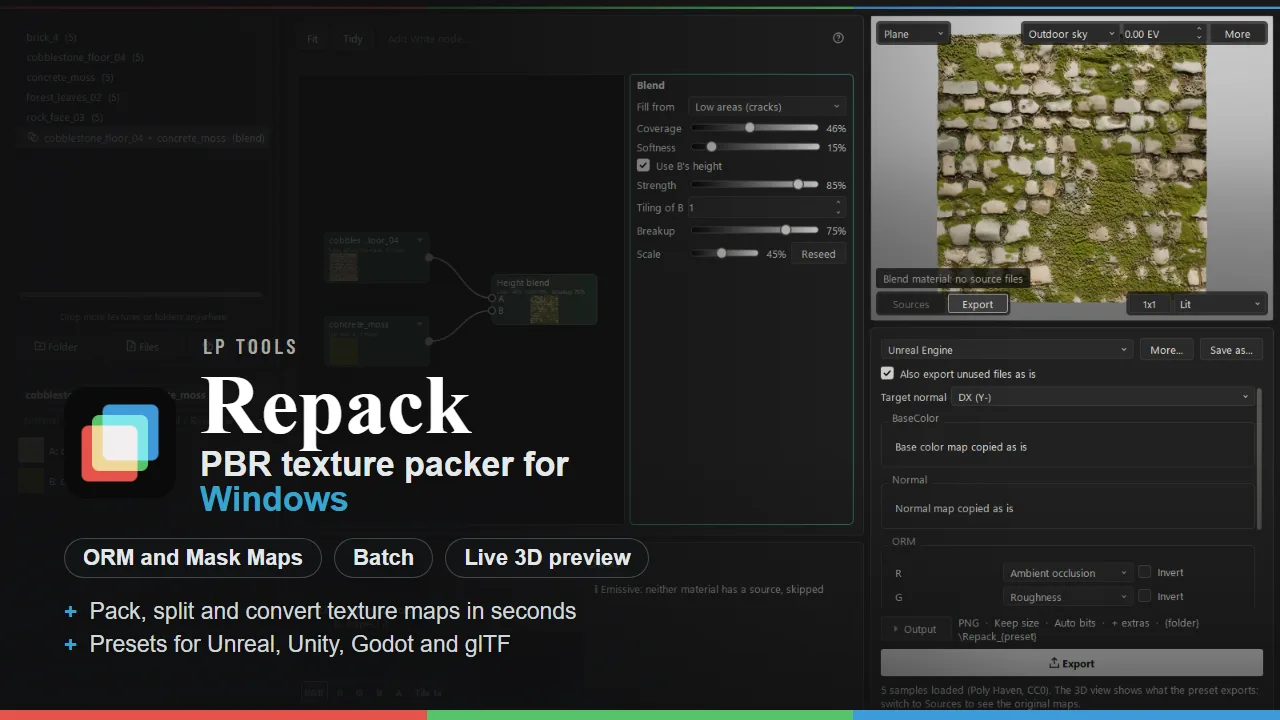
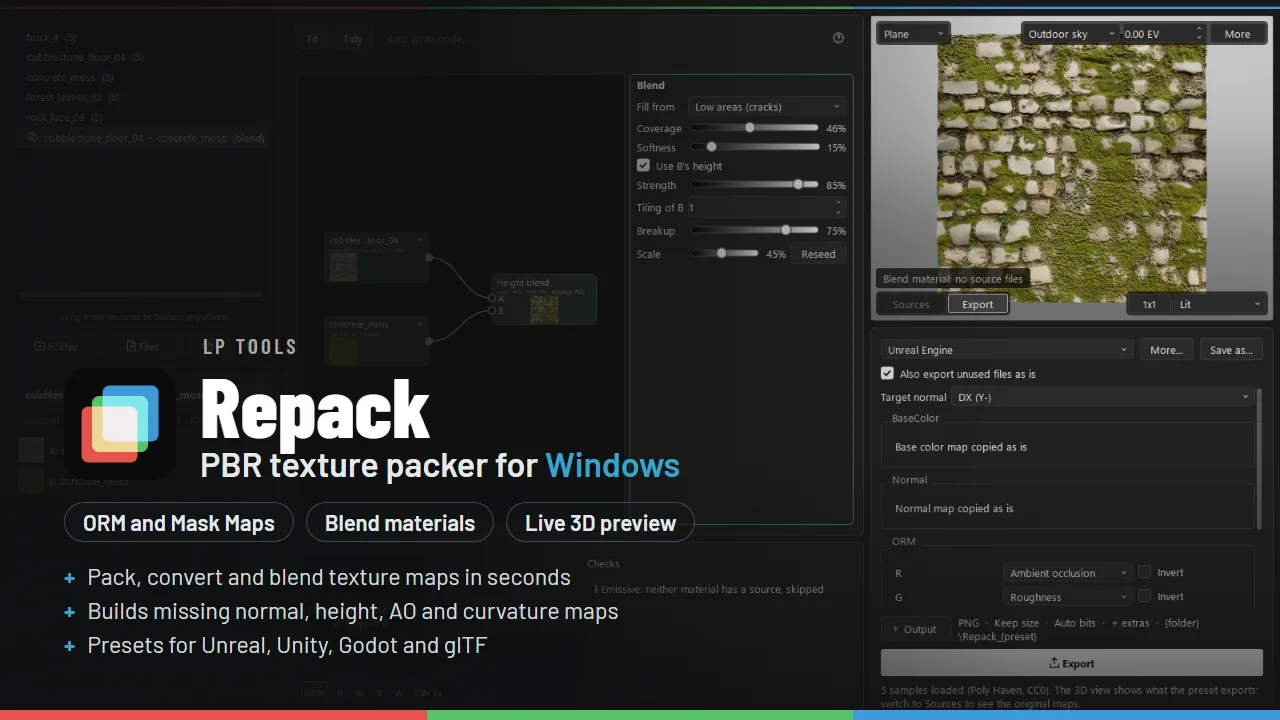
Repack: docs for Save and the .repack file, listing text, refreshed art

Changed region(s): [[0.0625, 0.5194, 0.5312, 0.9167], [0.0625, 0.5194, 0.125, 0.6722]]

diff --git a/_tools/repack.md b/_tools/repack.md
@@ -7,19 +7,19 @@ name: Repack
 os: Windows 10 and 11 (64-bit)
 title: Repack, PBR Texture Packer for Windows
 description: Repack packs, splits and converts PBR textures for Unreal, Unity, Godot and glTF. ORM and Mask Maps, normal flips, a node graph and a live 3D preview.
-summary: Drop in a folder of maps, pick Unreal, Unity, Godot or glTF, and get a correctly packed, named and converted texture set in seconds.
+summary: Drop in a folder of maps, pick Unreal, Unity, Godot or glTF, and get a correctly packed, named and converted texture set in seconds. Repack also builds missing maps and blends materials.
 features:
 - Reads your file names (diff, nor_gl, rough, disp, ao, _D, _N, ORM, Mask Map and more)
 - Presets for Unreal, Unity (URP, Built-in, Specular), Godot and glTF, plus separate maps and Convert only
 - DirectX and OpenGL normal flips, roughness and gloss, metal and specular conversions
 - A node graph with a pin per channel, and a live 3D preview with real displacement
-- Blend materials: lay moss over stone or brick by height, with sliders, and save blend kits
+- Blend materials: lay moss over stone or brick by height, with sliders, and save everything to one .repack file
 - Batch whole folders on every core, UDIM tiles and a watch folder
 ---
 
-## Pack, split and convert PBR textures in seconds
+## Pack, convert, fill in and blend PBR textures in seconds
 
-Drop in a folder of maps, pick a target, and Repack writes a correctly packed, named and converted set. ORM and Mask Maps, flipped normals, roughness to gloss, resized and in the format you need. It is the 20 minute texture chore, done in about 20 seconds.
+Drop in a folder of maps, pick a target, and Repack writes a correctly packed, named and converted set. ORM and Mask Maps, flipped normals, roughness to gloss, resized and in the format you need. Missing a normal, height, curvature or AO map? Repack builds it from the maps you have. Want moss growing in the cracks of a brick wall? Blend two materials by their height maps and export the result as a new set. It is the 20 minute texture chore, done in about 20 seconds.
 
 {% include figure.html slug="repack" name="ui" alt="Repack with a rock material loaded: the node graph, the 3D preview and the Unreal Engine preset" caption="Files on the left, wired into the preset's outputs in the middle, the material on the right." %}
 
@@ -30,7 +30,7 @@ Drop in a folder of maps, pick a target, and Repack writes a correctly packed, n
 - **Conversions:** DirectX to OpenGL normals, roughness to gloss, metal and roughness to specular and gloss, resize, bit depth with dithering, and PNG, TGA, JPG, TIFF, EXR or game-ready DDS output (BC7, BC5, BC4 and BC6H, with mipmaps). Reads PNG, JPG, TIFF, TGA, EXR, BMP, HDR and DDS.
 - **A node graph like Nuke's:** every file is a node with a pin per channel, wired into the outputs the preset writes. Drag a wire to change what goes where, and compare before and after on any node.
 - **A live 3D preview:** your material on a sphere, cube, plane or draped cloth, with real displacement from the height map. Switch between your sources and what the preset will export, so a wrong channel or a flipped normal shows before you export.
-- **Blend materials:** lay one material over another by its height map, such as moss in the cracks of a brick wall. Pick any two loaded materials, set coverage, softness and breakup with sliders, and Repack blends every map the preset writes and exports a new set. Save several blends as a kit, optionally with the textures inside, and pass the one file around.
+- **Blend materials:** lay one material over another by its height map, such as moss in the cracks of a brick wall. Pick any two loaded materials, set coverage, softness and breakup with sliders, and Repack blends every map the preset writes and exports a new set. Save the whole window, materials, blends, presets and settings, to one .repack file, optionally with the texture files bundled inside, and pass the one file around.
 - **Normal blending:** lay a detail normal over a base normal (RNM, Whiteout or UDN) with tiling and a strength slider on the node. Generated maps and your blend stay when you switch presets.
 - **Checks:** mixed sizes, normal maps that are not unit length, a missing map for an output and more, with a fix button where it can help.
 - **Batch work:** a whole folder of sets at once on every core, several presets in one go, UDIM tiles, and a watch folder that converts new sets as they appear.

diff --git a/_docs/repack.md b/_docs/repack.md
@@ -112,7 +112,7 @@ The graph shows three nodes: Material A (the base, its height drives the mask), 
 
 Both materials go through the preset selected in the main window first (generated maps, workflow, tweaks and ops), then each output is mixed, so a color tweak on the brick shows in the blend. All blends share that one preset. Colors are mixed in linear light and normals as directions. The 3D view shows a blend as exported (it has no source files of its own); switch it to **Blend mask** to see where Material B shows (white). An amber **!** on a slot means that material lacks a map the other has (the default is used); Checks lists each one. Export writes `{A}_{B}_{suffix}` files, for example `brick_4_forest_leaves_02_ORM.png`, for the preset's outputs; type in the name field to change `{A}_{B}`. The files of A and B are never written or changed. Ctrl+Z undoes creating, deleting and each session of the Height blend dialog.
 
-**Blend kits.** **File > Save blend kit** (Ctrl+Shift+S) saves your blends, or only the selected ones, to one `.repackblend` file with the preset they use. Unticked, **Include texture files** keeps the kit small: it points at the texture folders (relative to the kit when they sit under its folder, so a moved project still opens). Ticked, the textures go inside the kit, each file once, so it opens on any computer; embedded textures keep their original licenses. **File > Open blend kit**, **Recent kits**, a double click in Explorer or a drop onto the window adds every blend of the kit to the list and selects the kit's preset. A material that cannot be found shows as a red slot: **File > Locate folder** (or a double click on the slot) points every blend that uses it at its new folder. On the command line, `repack run kit.repackblend [--blend NAME] [--preset ID] [--out DIR]` exports a kit and `repack lint kit.repackblend` checks it.
+**Saving your work.** **File > Save** (Ctrl+Shift+S) writes everything in the window to one `.repack` file: every material you loaded (with the map each file was assigned, the normal convention, workflow, set name, UDIM tile settings and the unused files you left out), all your blends, every preset in the list including unsaved edits to the one you are working on, the extra presets ticked under **More...**, the export settings (format, resize, bit depth, dither, mipmaps, DDS compression, file name and folder templates, output folder) and the 3D view settings. Choose **Links only** to keep the file small: it points at your texture folders (relative to the file when they sit under its folder, so a moved project still opens). Choose **With texture files bundled** and the textures go inside, each file once, so it opens on any computer; bundled textures keep their original licenses. Saving needs a license. **File > Open**, **Recent files**, a double click in Explorer or a drop onto the window loads a `.repack` file and brings the window back as you left it; if the window already holds materials, Repack asks before replacing them. A preset in the file that differs from yours is added to the list as "name (from file)" and never overwrites yours. A material that cannot be found shows as a red slot: **File > Locate folder** (or a double click on the slot) points every blend that uses it at its new folder. Older `.repackblend` files still open and add their blends to the list. On the command line, `repack run project.repack [--blend NAME] [--preset ID] [--out DIR]` exports the blends in a file and `repack lint project.repack` checks them.
 
 If the preset has no height output, the blended height is still exported as an extra file (for example `brick_4_moss_Height.png`) while **Also export unused files as is** is on, so a displacement map made by the blend isn't lost.
 
@@ -168,7 +168,7 @@ The Checks panel under the graph points out things that usually cause trouble: m
 | Fit the graph | F |
 | Next map in 3D, previous map | C, Shift+C |
 | Lit material in 3D, and back | M |
-| Save blend kit | Ctrl+Shift+S |
+| Save | Ctrl+Shift+S |
 
 Window size, panes and options are remembered. **Help > About Repack** shows the version and build date. Third party components and their licenses are listed in `NOTICES.txt` in the download.
 
